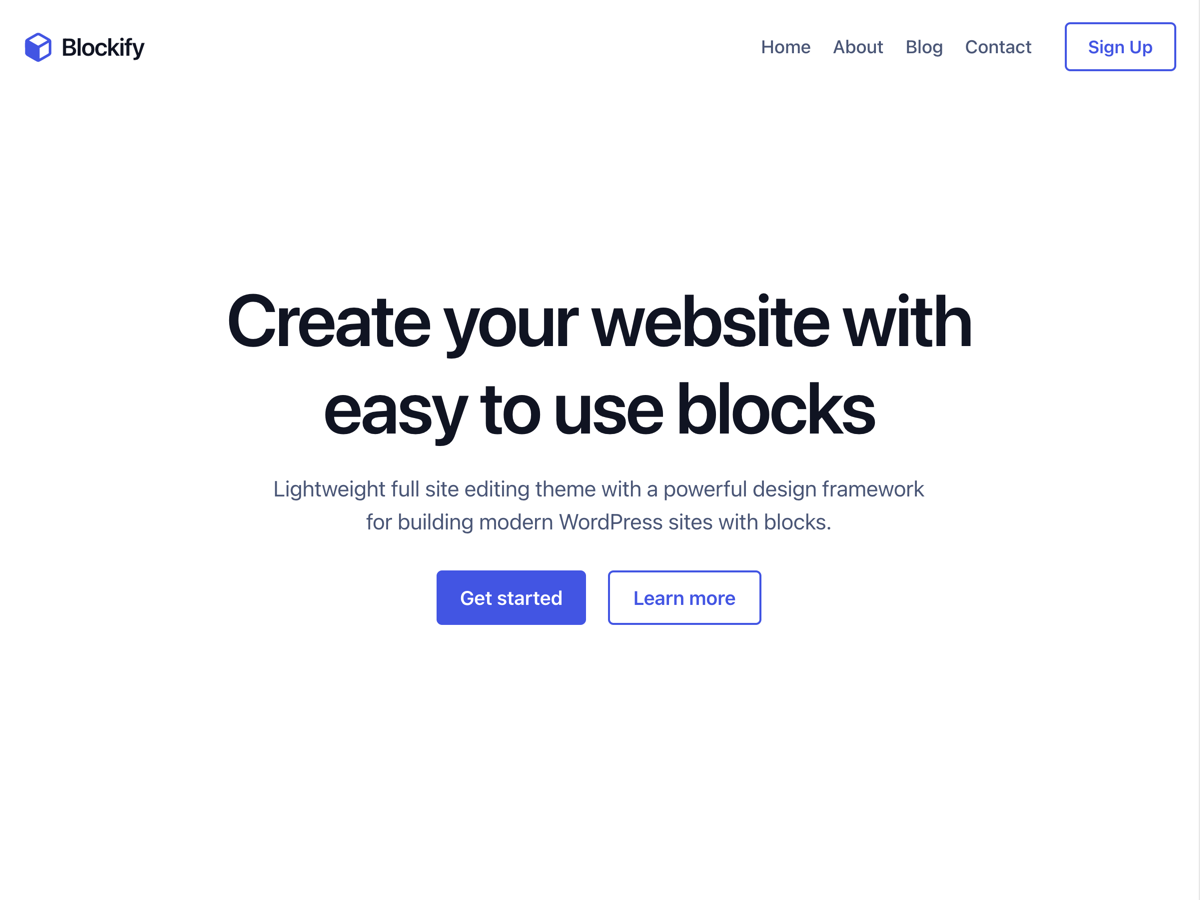
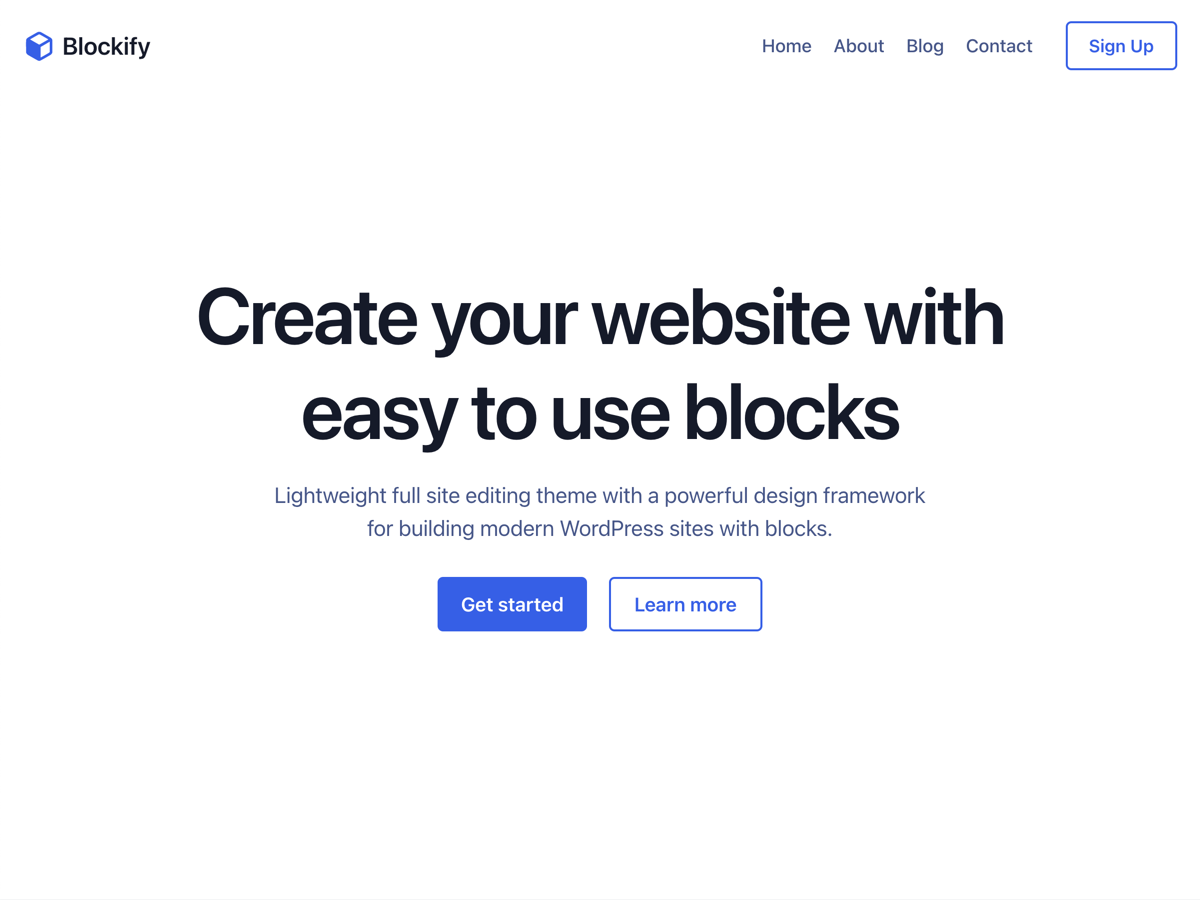
Update colors and links

diff --git a/style.css b/style.css
@@ -6,7 +6,7 @@
  * Requires at least: 6.0
  * Tested up to: 6.0
  * Requires PHP: 7.4
- * Version: 0.1.2
+ * Version: 0.1.3
  * License: GNU General Public License v2 or later
  * License URI: http://www.gnu.org/licenses/gpl-2.0.html
  * Text Domain: blockify

diff --git a/patterns/footer-default.php b/patterns/footer-default.php
@@ -5,7 +5,8 @@
  * Categories: footer
  * Block Types: core/template-part/footer
  */
-?><!-- wp:columns {"align":"wide","style":{"spacing":{"padding":{"bottom":"3em","top":"5em"}}},"fontSize":"16"} -->
+?><!-- wp:group {"align":"wide","layout":{"inherit":true}} -->
+<div class="wp-block-group alignwide alignwide"><!-- wp:columns {"align":"wide","style":{"spacing":{"padding":{"bottom":"3em","top":"5em"}}},"fontSize":"16"} -->
 <div class="wp-block-columns alignwide has-16-font-size alignwide" style="padding-top:5em;padding-bottom:3em"><!-- wp:column -->
 <div class="wp-block-column"><!-- wp:group {"style":{"spacing":{"blockGap":"0.3em"}},"layout":{"type":"flex","flexWrap":"nowrap"}} -->
 <div class="wp-block-group"><!-- wp:site-logo {"width":30,"className":"is-style-icon","textColor":"primary-600","iconSet":"social","icon":"blockify","svgString":"\u003csvg xmlns=\u0022http://www.w3.org/2000/svg\u0022 viewBox=\u00220 0 24 25\u0022\u003e\u003cpath d=\u0022M11.258 2.017 C 10.746 2.162,10.691 2.192,6.220 4.750 C 5.010 5.443,3.858 6.105,3.660 6.221 C 3.269 6.451,2.763 6.875,2.499 7.193 C 2.282 7.454,2.088 8.025,2.034 8.562 C 2.011 8.795,2.001 10.643,2.010 13.204 C 2.026 17.969,2.005 17.632,2.321 18.236 C 2.521 18.617,2.835 19.006,3.120 19.225 C 3.370 19.418,4.051 19.817,7.360 21.710 C 10.270 23.375,10.848 23.687,11.296 23.839 C 11.817 24.015,11.971 24.026,12.408 23.918 C 12.933 23.789,13.750 23.363,16.600 21.733 C 19.850 19.873,20.625 19.420,20.871 19.234 C 21.138 19.034,21.522 18.553,21.703 18.193 C 21.997 17.610,21.980 17.935,21.980 12.900 L 21.980 8.380 21.867 8.000 C 21.711 7.476,21.594 7.280,21.200 6.878 C 20.817 6.487,20.891 6.531,16.360 3.940 C 12.761 1.881,13.010 1.995,12.060 1.974 C 11.628 1.964,11.404 1.976,11.258 2.017 M12.460 3.994 C 12.708 4.112,16.127 6.060,17.913 7.100 C 18.738 7.580,18.917 7.700,18.873 7.740 C 18.783 7.824,14.712 10.171,12.771 11.257 L 12.001 11.688 11.371 11.337 C 9.925 10.534,5.440 7.949,5.157 7.756 C 5.065 7.693,5.068 7.690,5.522 7.422 C 6.715 6.717,11.008 4.284,11.620 3.967 C 11.859 3.842,12.162 3.852,12.460 3.994 M19.995 13.784 C 19.998 14.996,19.989 16.292,19.975 16.664 L 19.949 17.340 19.745 17.541 C 19.499 17.782,18.879 18.158,16.400 19.568 C 13.439 21.253,13.085 21.448,13.041 21.421 C 13.013 21.403,13.000 20.129,13.000 17.448 L 13.001 13.500 16.470 11.469 L 19.940 9.439 19.965 10.509 C 19.978 11.098,19.992 12.572,19.995 13.784 \u0022 fill=\u0022currentColor\u0022 stroke=\u0022none\u0022 fill-rule=\u0022evenodd\u0022\u003e\u003c/path\u003e\u003c/svg\u003e"} /-->
@@ -189,7 +190,8 @@
 <!-- /wp:column --></div>
 <!-- /wp:columns --></div>
 <!-- /wp:column --></div>
-<!-- /wp:columns -->
+<!-- /wp:columns --></div>
+<!-- /wp:group -->
 
 <!-- wp:paragraph {"align":"center","style":{"spacing":{"margin":{"bottom":"3em"}}},"fontSize":"16"} -->
 <p class="aligncenter has-text-align-center has-16-font-size aligncenter" style="margin-bottom:3em">© Copyright [year] Blockify. All rights reserved. </p>

diff --git a/patterns/blog-three-column.php b/patterns/blog-three-column.php
@@ -11,7 +11,7 @@
 
 <!-- wp:post-date {"style":{"spacing":{"margin":{"top":"0px","right":"0px","bottom":"0px","left":"0px"}}}} /-->
 
-<!-- wp:post-title {"fontSize":"36"} /-->
+<!-- wp:post-title {"level":4,"style":{"spacing":{"margin":{"top":"0.5em","right":"0em","bottom":"0.5em","left":"0em"}}}} /-->
 
 <!-- wp:post-excerpt {"moreText":"Read more"} /-->
 <!-- /wp:post-template -->

diff --git a/patterns/blog-single-column.php b/patterns/blog-single-column.php
@@ -9,7 +9,7 @@
 <div class="wp-block-query"><!-- wp:post-template -->
 <!-- wp:post-featured-image /-->
 
-<!-- wp:post-title /-->
+<!-- wp:post-title {"level":3} /-->
 
 <!-- wp:post-date {"style":{"spacing":{"margin":{"bottom":"1em"}}}} /-->
 
